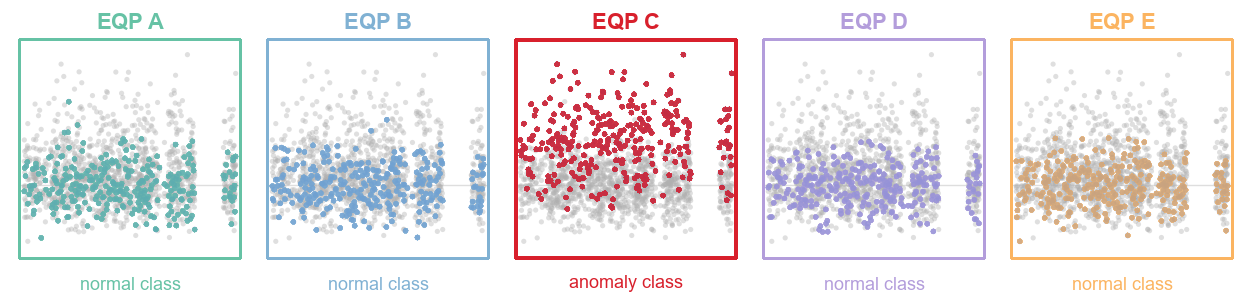
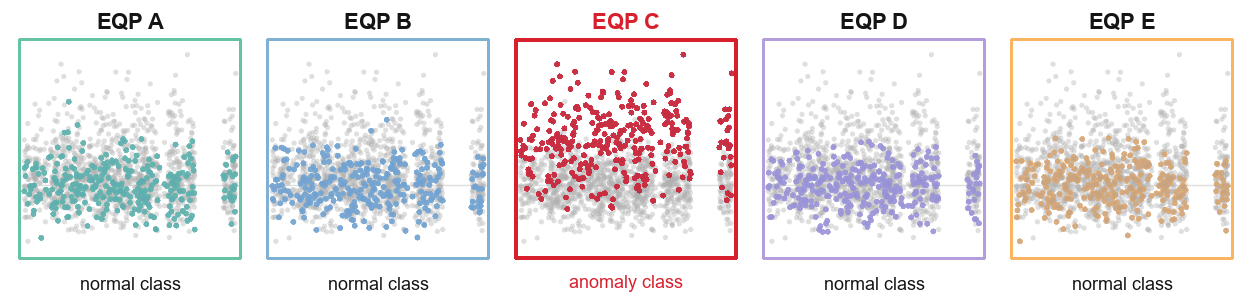
Simplify summary and update live progress

diff --git a/scripts/generate_strict_one_factor_report.py b/scripts/generate_strict_one_factor_report.py
@@ -697,16 +697,16 @@ def best_known_method(records: dict[str, dict[str, ConditionRecord]]) -> list[st
 
     recipe_lines: list[str] = []
     recipe_lines.extend([
-        "| axis | ref value | BKM value | F1 | FN | FP | status |",
+        "| axis | baseline | BKM value | F1 | FN | FP | status |",
         "| --- | ---: | ---: | ---: | ---: | ---: | --- |",
     ])
     for family in ("normal_ratio", "gc", "label_smoothing", "stochastic_depth", "focal_gamma", "abnormal_weight", "ema", "allow_tie_save"):
         best = picks[family]
         if best is None:
             continue
-        ref_label = FAMILY_BASELINES.get(family, ("", ""))[0]
+        baseline_label = {"gc": "1.0"}.get(family, FAMILY_BASELINES.get(family, ("", ""))[0])
         recipe_lines.append(
-            f"| `{family}` | `{ref_label}` | `{best.label}` | {fmt_float(best.f1)} | {fmt_compact(best.fn)} | {fmt_compact(best.fp)} | single-axis evidence |"
+            f"| `{family}` | `{baseline_label}` | `{best.label}` | {fmt_float(best.f1)} | {fmt_compact(best.fn)} | {fmt_compact(best.fp)} | single-axis evidence |"
         )
     return recipe_lines
 
@@ -892,44 +892,27 @@ def write_markdown(
         "",
         f"_Auto-updated at `{generated_at}`._",
         "",
-        "## Interpretation",
+        "## Experiment Protocol",
+        "",
+        "- Strict one-factor protocol: keep the baseline fixed and change one axis at a time.",
+        "- Main seed set: `42, 1, 2, 3, 4`; report `F1`, `FN`, `FP`, and completed seed count.",
+        f"- Operating baseline: `{OPERATING_BASELINE}`.",
+        "- Rawbase server sweep uses `grad_clip=0.0`, `smooth_window=1`, `label_smoothing=0.0`, and `NT=0.9`.",
+        "",
+        "## Performance Summary",
+        "",
+        "| experiment | basis | seeds/runs | F1 | FN | FP | note |",
+        "| --- | --- | ---: | ---: | ---: | ---: | --- |",
+        f"| `{OPERATING_BASELINE}` | operating baseline | 5/5 | {fmt_float(baseline[0])} | {fmt_compact(baseline[1])} | {fmt_compact(baseline[2])} | current comparison baseline |",
+        "| `fresh0412_v11_refcheck_gcsmooth_n700` | matched control | 5/5 | 0.9955 | 4.4 | 2.4 | legacy strict delta basis |",
+        "| `fresh0412_v11_n700_existing` | historical selected ref | 5/5 | 0.9901 | 9.8 | 5.0 | reference-selection history |",
+        f"| main strict queue | one-factor sweep | {main_complete} runs | - | - | - | decision `{strict_summary.get('decision')}` |",
+        f"| round-2 refinement | follow-up neighbors | {round2_complete}/{round2_total} runs | - | - | - | stage `{state.get('stage')}`, status `{state.get('status')}` |",
         "",
     ]
-    lines.extend([f"- {line}" for line in experiment_interpretation(records)])
-    lines.extend([
-        "",
-        "## Evidence Limits And Next Fixes",
-        "",
-    ])
-    lines.extend([f"- {line}" for line in evidence_limits(records)])
-    lines.extend([
-        "",
-        "## Summary",
-        "",
-        f"- Operating baseline: `{OPERATING_BASELINE}` -> `F1={fmt_float(baseline[0])}`, `FN={fmt_compact(baseline[1])}`, `FP={fmt_compact(baseline[2])}` over `5/5` seeds.",
-        f"- Historical selected ref: `{HISTORICAL_BASELINE}` -> `F1=0.9901`, `FN=9.8`, `FP=5.0`; kept only as reference-selection history.",
-        f"- Main strict queue: `{main_complete}` completed runs, decision `{strict_summary.get('decision')}`.",
-        f"- Round-2 refinement: `{round2_complete}/{round2_total}` completed runs, stage `{state.get('stage')}`, status `{state.get('status')}`.",
-        "",
-        "Display용 이미지와 실제 학습 입력 이미지는 다릅니다. 아래 두 montage는 기존 `display_v11/`와 `images_v11/`에서 같은 class 순서로 가져온 예시입니다.",
-        "",
-        "**Display images**",
-        "",
-        "![display samples](sample_overview_display.png)",
-        "",
-        "**Training images**",
-        "",
-        "![training samples](sample_overview_train.png)",
-        "",
-    ])
-    lines.extend([f"- {line}" for line in strongest_candidates(records)])
-    if optimized_normal_ratio:
-        lines.append("- `normal_ratio`: 현재 ref 기준 sweep에서는 3000~3500 구간이 좋아 보이지만, optimized-v11 sweep을 같이 보면 normal_ratio 증가가 항상 개선을 만들지는 않습니다.")
     lines.extend([
         "",
         "## Best Known Method",
-        "",
-        "_This is the current best-known method table from one-factor evidence. Joint combo validation still has to be run after round-2 closes._",
         "",
     ])
     lines.extend(best_known_method(records) or ["- No completed candidate set yet."])
@@ -939,7 +922,7 @@ def write_markdown(
         "",
         "같은 context chart를 member별 class 판단 이미지로 확장합니다. 불량 member 이미지만 anomaly class이고, 양호 member 이미지는 normal class입니다.",
         "",
-        "아래 예시는 같은 chart `ch_09100`을 `EQP A`, `EQP B`, `EQP C`, `EQP D`, `EQP E` class 이미지로 펼친 것입니다. 각 EQP class는 서로 다른 색으로 표시하고, 회색 점들은 같은 context 안의 비교 fleet입니다. 이 예시에서는 `EQP C`만 빨간 anomaly class이고 `EQP A`, `EQP B`, `EQP D`, `EQP E`는 파스텔 normal class입니다.",
+        "아래 예시는 같은 chart `ch_09100`을 `EQP A`, `EQP B`, `EQP C`, `EQP D`, `EQP E` class 이미지로 펼친 것입니다. 각 EQP의 highlighted trend만 서로 다른 색으로 표시하고, 회색 점들은 같은 context 안의 비교 fleet입니다. class 글자는 normal은 검정, anomaly는 빨강입니다. 이 예시에서는 `EQP C`만 anomaly class이고 `EQP A`, `EQP B`, `EQP D`, `EQP E`는 normal class입니다.",
         "",
         "![logical member class examples](logical_member_targets_ch09100.png)",
         "",

diff --git a/scripts/update_live_summary_doc.py b/scripts/update_live_summary_doc.py
@@ -315,6 +315,68 @@ def build_overview(args: argparse.Namespace) -> list[str]:
     return lines
 
 
+def build_performance_summary(args: argparse.Namespace) -> list[str]:
+    raw_ref = read_json(args.raw_ref_summary)
+    rawbase = read_json(args.rawbase_summary)
+    sample_skip = read_json(args.sample_skip_summary)
+
+    raw_agg = raw_ref.get("aggregates", {})
+    rawbase_agg = rawbase.get("aggregates", {})
+    sample_latest = latest_run(sample_skip)
+
+    lines = [
+        "",
+        "| experiment | basis | seeds/runs | F1 | FN | FP | note |",
+        "| --- | --- | ---: | ---: | ---: | ---: | --- |",
+    ]
+    if raw_agg:
+        lines.append(
+            f"| `fresh0412_v11_refcheck_raw_n700` | raw server baseline | {raw_agg.get('complete', 0)}/5 | "
+            f"{fmt_num(raw_agg.get('f1_mean'))} | {fmt_num(raw_agg.get('fn_mean'), 3)} | {fmt_num(raw_agg.get('fp_mean'), 3)} | 현재 서버 기준선 |"
+        )
+    else:
+        lines.append("| `fresh0412_v11_refcheck_raw_n700` | raw server baseline | 5/5 | 0.99746 | 1.6 | 2.2 | 현재 서버 기준선 |")
+    lines.extend([
+        "| `fresh0412_v11_refcheck_gcsmooth_n700` | matched control | 5/5 | 0.9955 | 4.4 | 2.4 | 아래 기존 strict 표의 delta 기준 |",
+        "| `fresh0412_v11_n700_existing` | historical selected ref | 5/5 | 0.9901 | 9.8 | 5.0 | 과거 reference 선택 기록 |",
+    ])
+    if rawbase_agg:
+        lines.append(
+            f"| rawbase round1 live | rawbase history | {rawbase_agg.get('complete', 0)} runs | "
+            f"{fmt_num(rawbase_agg.get('f1_mean'))} | {fmt_num(rawbase_agg.get('fn_mean'), 3)} | {fmt_num(rawbase_agg.get('fp_mean'), 3)} | 중간 집계, 최종 claim 아님 |"
+        )
+    if sample_latest:
+        lines.append(
+            f"| sample-skip pilot | separate 1-run | 1/1 | {fmt_num(sample_latest.get('test_f1'))} | "
+            f"{sample_latest.get('fn')} | {sample_latest.get('fp')} | main sweep과 분리 |"
+        )
+    lines.append("")
+    return lines
+
+
+def build_rawbase_progress(args: argparse.Namespace) -> list[str]:
+    rawbase = read_json(args.rawbase_summary)
+    by_candidate = rawbase.get("aggregates", {}).get("by_candidate", {})
+    lines = [
+        "",
+        "| candidate | seeds | F1 | FN | FP | status |",
+        "| --- | ---: | ---: | ---: | ---: | --- |",
+    ]
+    if isinstance(by_candidate, dict):
+        for name, row in sorted(by_candidate.items()):
+            complete = int(row.get("complete", 0) or 0)
+            status = "complete" if complete >= 5 else "partial"
+            lines.append(
+                f"| `{name}` | {complete}/5 | {fmt_num(row.get('f1_mean'))} | "
+                f"{fmt_num(row.get('fn_mean'), 3)} | {fmt_num(row.get('fp_mean'), 3)} | {status} |"
+            )
+    active = active_log(args.logs_dir)
+    if active:
+        lines.extend(["", f"- active run: `{active}`"])
+    lines.append("")
+    return lines
+
+
 def replace_section(text: str, heading: str, new_lines: list[str]) -> str:
     pattern = re.compile(rf"({re.escape(heading)}\n)(.*?)(\n## )", re.S)
     replacement = r"\1" + "\n".join(new_lines) + r"\3"
@@ -322,6 +384,14 @@ def replace_section(text: str, heading: str, new_lines: list[str]) -> str:
     if count != 1:
         raise SystemExit(f"heading section not found: {heading}")
     return text
+
+
+def insert_section_before(text: str, heading: str, section_heading: str, new_lines: list[str]) -> str:
+    idx = text.find(heading)
+    if idx < 0:
+        return text.rstrip() + "\n\n" + section_heading + "\n" + "\n".join(new_lines) + "\n"
+    section = section_heading + "\n" + "\n".join(new_lines)
+    return text[:idx].rstrip() + "\n\n" + section.rstrip() + "\n\n" + text[idx:].lstrip()
 
 
 def replace_tail(text: str, heading: str, new_lines: list[str]) -> str:
@@ -347,13 +417,19 @@ def main() -> int:
     text = args.docs.read_text(encoding="utf-8")
     now = datetime.now().astimezone().isoformat(timespec="seconds")
     text = re.sub(r"_자동 갱신 시각: `[^`]+`._", f"_자동 갱신 시각: `{now}`._", text, count=1)
-    text = replace_section(text, "## 현재 진행 상태", build_status(args))
-    text = replace_section(text, "## 요약", build_overview(args))
-    live_lines = rawbase_live_sections(args)
+    if "## 성능 요약" in text:
+        text = replace_section(text, "## 성능 요약", build_performance_summary(args))
+    elif "## 현재 진행 상태" in text:
+        text = replace_section(text, "## 현재 진행 상태", build_status(args))
+    if "## Rawbase 진행" in text:
+        text = replace_section(text, "## Rawbase 진행", build_rawbase_progress(args))
+    elif "## Best Known Method" in text:
+        text = insert_section_before(text, "## Best Known Method", "## Rawbase 진행", build_rawbase_progress(args))
+    if "## 요약" in text:
+        text = replace_section(text, "## 요약", build_overview(args))
     if "## Rawbase Live Tables And Plots" in text:
+        live_lines = rawbase_live_sections(args)
         text = replace_tail(text, "## Rawbase Live Tables And Plots", live_lines)
-    else:
-        text = text.rstrip() + "\n\n" + "\n".join(live_lines) + "\n"
     args.docs.write_text(text, encoding="utf-8")
     print(f"[live-summary] updated {args.docs}")
     return 0

diff --git a/scripts/publish_strict_report.py b/scripts/publish_strict_report.py
@@ -34,12 +34,13 @@ def rewrite_report_text(text: str) -> str:
     replacements = {
         "# Strict Single-Factor Report": "# 실험 요약",
         "_Auto-updated at `": "_자동 갱신 시각: `",
+        "## Experiment Protocol": "## 실험 방식",
+        "## Performance Summary": "## 성능 요약",
         "## Summary": "## 요약",
         "## Interpretation": "## 결과 해석",
         "## Evidence Limits And Next Fixes": "## 한계와 수정 필요 사항",
         "## Best Known Method": "## Best Known Method",
-        "_This is the current best-known method table from one-factor evidence. Joint combo validation still has to be run after round-2 closes._":
-            "_현재 one-factor evidence 기준 best-known method입니다. round-2 종료 후 joint combo validation이 필요합니다._",
+        "_This is the current best-known method table from one-factor evidence. Joint combo validation still has to be run after round-2 closes._": "",
         "## Pending Round-2 Checks": "## 남은 Round-2 확인 항목",
         "## Plot Index": "## 플롯 목록",
         "Frozen ref:": "고정 기준 ref:",

diff --git a/docs/summary.md b/docs/summary.md
@@ -1,92 +1,54 @@
 # 실험 요약
 
-_자동 갱신 시각: `2026-04-28T20:23:15+09:00`._
+_자동 갱신 시각: `2026-04-28T23:56:44+09:00`._
 
-## 현재 진행 상태
+## 실험 방식
 
-- Team agent 점검 결과, GC 축은 서버 rawbase queue에서 5개 조건으로 제한합니다: `gc01`, `gc025`, `gc05`, `gc15`, `gc50`.
-- raw server baseline refcheck는 `5/5` 완료됐습니다: `fresh0412_v11_refcheck_raw_n700` -> `F1=0.99746`, `FN=1.6`, `FP=2.2`.
-- raw refcheck per-seed 완료값은 `s42 F1=0.9980/FN=0/FP=3`, `s1 F1=0.9980/FN=1/FP=2`, `s2 F1=0.9940/FN=7/FP=2`, `s3 F1=0.9993/FN=0/FP=1`, `s4 F1=0.9980/FN=0/FP=3`입니다.
-- 서버용 rawbase queue 생성은 `validations/server_paper_rawbase_strict_single_factor_queue.json`를 사용하며 기준 설정은 `grad_clip=0.0`, `smooth_window=1`, `smooth_method=median`, `label_smoothing=0.0`입니다.
-- 학습 완료 후 다음 조건으로 즉시 넘어가는 handoff는 smoke run으로 검증했습니다. `max_samples_per_split=10`, `epochs=3`의 2-run queue가 `queue_exhausted`까지 완료됐고, 첫 run의 `=== EXIT 0 ... ===` 직후 두 번째 `=== RUN ... ===`가 시작됐습니다.
-- NT 평가는 selected threshold만 남겼습니다. 현재 reporting default는 `NT=0.9`이고, smoke run에서 `confusion_matrix_nt.png` 생성까지 확인했습니다.
-- sample-level nonfinite loss filter는 main sweep과 분리된 별도 1-run sample-skip queue로 실행합니다: `bash scripts/sweeps_server/06_sample_skip.sh`.
-- rawbase round1에서 GC는 5개 조건만 남깁니다. 기존 dense GC 결과와 중단 전 추가로 수집된 rawbase GC 일부는 보조 기록으로 보고, main sweep에는 축별 조건 수를 제한합니다.
-- 로그 폴더 이력 기반 표/plot 생성 스크립트를 추가했습니다: `python scripts/generate_log_history_report.py --logs-dir logs --out-prefix validations/log_history_report_refcheck_raw --contains refcheck_raw`. 출력은 markdown, candidate/run CSV, candidate F1 plot, val F1 curve, grad p99 curve입니다.
-- `TestEpoch` 평가는 best update 여부와 별개로 수행될 수 있으므로, 이제 tie/no-improvement epoch에서도 평가가 수행되면 `TestEpoch[...] f1=... FN=... FP=...` 한 줄이 출력됩니다.
-- controller/all.sh 로그에서는 tqdm progress bar가 자동 비활성화됩니다. pipe/tee 환경에서 carriage-return bar가 여러 줄로 쌓이는 문제를 피하고, 직접 interactive 실행할 때만 bar가 유지됩니다.
+- 같은 baseline에서 한 번에 하나의 축만 바꾸는 strict one-factor 실험입니다.
+- 기본 seed는 `42, 1, 2, 3, 4`이고, 성능은 `F1`, `FN`, `FP`, 완료 seed 수로 봅니다.
+- 서버 rawbase 기준선은 `fresh0412_v11_refcheck_raw_n700`입니다. rawbase main sweep은 `grad_clip=0.0`, `smooth_window=1`, `label_smoothing=0.0`, `NT=0.9`로 맞춥니다.
+- GC는 rawbase main sweep에서 `gc01`, `gc025`, `gc05`, `gc15`, `gc50` 5조건만 비교합니다. sample-skip은 main sweep에 섞지 않고 별도 1-run으로만 봅니다.
 
-## Team Agent 운영 계획
+## 성능 요약
 
-- 1단계: raw baseline refcheck 5 seeds는 완료됐고, `validations/server_paper_refcheck_raw_summary.json`을 raw 기준선으로 채택합니다.
-- 2단계: rawbase strict round1은 GC 5조건 제한을 적용한 뒤 진행합니다. `bash scripts/sweeps_server/00_all.sh`, `02_round1.sh`, Windows watcher 모두 같은 queue preparation 정책을 씁니다.
-- 3단계: raw round1 결과로 round2를 새로 선택합니다. 기존 `paper_strict_single_factor_round2_*` 산출물은 gcsmooth 기준이므로 raw baseline claim에는 직접 재사용하지 않습니다.
-- 4단계: sample-skip은 main sweep에 섞지 않고 별도 1-run으로만 비교합니다. 우선순위는 5조건 GC, `normal_ratio`, `label_smoothing`, `abnormal_weight`, `stochastic_depth`, `ema`입니다.
+| experiment | basis | seeds/runs | F1 | FN | FP | note |
+| --- | --- | ---: | ---: | ---: | ---: | --- |
+| `fresh0412_v11_refcheck_raw_n700` | raw server baseline | 5/5 | 0.9975 | 1.6 | 2.2 | 현재 서버 기준선 |
+| `fresh0412_v11_refcheck_gcsmooth_n700` | matched control | 5/5 | 0.9955 | 4.4 | 2.4 | 아래 기존 strict 표의 delta 기준 |
+| `fresh0412_v11_n700_existing` | historical selected ref | 5/5 | 0.9901 | 9.8 | 5.0 | 과거 reference 선택 기록 |
+| rawbase round1 live | rawbase history | 19 runs | 0.9982 | 0.526 | 2.158 | 중간 집계, 최종 claim 아님 |
+| sample-skip pilot | separate 1-run | 1/1 | 0.9973 | 2 | 2 | main sweep과 분리 |
 
-## 결과 해석
+## Rawbase 진행
 
-- 이번 strict one-factor round에서는 baseline을 고정한 채 `normal_ratio`, `per_class`, `lr`, `warmup`, `gc`, `weight_decay`, `smoothing`, `label_smoothing`, `stochastic_depth`, `focal_gamma`, `abnormal_weight`, `ema`, `color`, `allow_tie_save`를 개별 축으로 확인했습니다.
-- 유의미한 최적값 후보가 보이는 축은 `label_smoothing`은 `0.15` 근처에서 가장 강한 개선이 보였고, 너무 낮거나 높으면 FP/FN 균형이 다시 나빠졌습니다; `abnormal_weight`는 `1.5` 근처에서 sweet spot이 보였고, 더 크게 주면 FN이 다시 증가했습니다; `stochastic_depth`는 `0.1` 인근에서 유의미한 개선이 나타났습니다.
-- `GC`는 dense sweep이 과하므로 서버 rawbase에서는 5개 조건만 유지합니다. 단일 sharp optimum보다는 넓은 양호 구간으로 해석하는 편이 맞고, 나머지 세부 GC 값은 보조 기록으로만 둡니다.
-- 현재로서는 뚜렷한 최적값이 약하거나 추가 확인이 필요한 축은 `focal_gamma`는 여러 값이 비슷해서 뚜렷한 최적값보다는 broad-good 혹은 약한 효과 축에 가깝습니다; `normal_ratio`는 성능이 전반적으로 좋아지는 구간은 보이지만, 현재 점들만으로는 매끈한 단일 sweet spot이라고 단정하기 어렵습니다; `ema`는 baseline 대비 개선은 있으나 강한 최적값 주장을 하기는 아직 어렵습니다.
-
-## 한계와 수정 필요 사항
-
-- 서버 운영 baseline은 raw 기준 `fresh0412_v11_refcheck_raw_n700`로 전환 완료됐습니다. 다만 아래 기존 strict 표와 delta는 아직 완료된 matched control `fresh0412_v11_refcheck_gcsmooth_n700` 기준으로 남아 있으므로, rawbase round1이 쌓이는 대로 raw 기준 표로 재생성해야 합니다.
-- 완료된 gcsmooth matched control은 `F1=0.9955`, `FN=4.4`, `FP=2.4`, target band hit `0/5`입니다. FP가 전 seed에서 낮아 기준선이 너무 깨끗하다는 한계가 있습니다.
-- `fresh0412_v11_n700_existing`은 historical selected ref로 보존합니다. raw strict one-factor 표와 delta 계산 기준은 `fresh0412_v11_refcheck_raw_n700`로 재생성해야 합니다.
-- `label_smoothing=0.0`은 baseline train config에 명시된 no-smoothing 상태입니다. 단, `label_smoothing>0`에서는 loss 구현 경로가 `CrossEntropyLoss(label_smoothing=...)`로 바뀌므로 최종 claim에는 이 구현 차이를 한계로 적어야 합니다.
-- 현재 표는 baseline-fixed one-factor evidence만 섞어 보여줍니다. alternate-parent stress, bad-case rescue, logical/per-member 실험은 별도 표로 분리해야 합니다.
-- rawbase server queue는 GC 5조건 제한과 sample-skip 분리를 반영한 뒤 재생성해야 합니다. claim 성숙도 카운트는 rawbase round1 완료 후 재계산합니다.
-- `stochastic_depth`는 학습 때 일부 residual/drop-path branch를 확률적으로 끄는 regularization입니다. 추론 때는 전체 경로를 쓰며, 모델이 한 경로에 과적합하지 않게 만들어 seed 안정성과 FN/FP 균형이 좋아지는지 보는 축입니다.
-- 최종 논문화 전에는 각 축마다 per-seed/worst-seed, history의 val_loss/F1 진동, prediction trend의 반복 FP/FN chart_id, label-or-annotation suspect를 붙여야 합니다.
-
-## 요약
-
-- Active server baseline candidate: `fresh0412_v11_refcheck_raw_n700` -> refcheck complete, `F1=0.99746`, `FN=1.6`, `FP=2.2` over `5/5` seeds.
-- Server queue policy: rawbase round1 keeps only 5 GC conditions and runs sample-skip separately via `scripts/sweeps_server/06_sample_skip.sh`.
-- Last completed matched control: `fresh0412_v11_refcheck_gcsmooth_n700` -> `F1=0.9955`, `FN=4.4`, `FP=2.4` over `5/5` seeds.
-- Historical selected ref: `fresh0412_v11_n700_existing` -> `F1=0.9901`, `FN=9.8`, `FP=5.0`; kept only as reference-selection history.
-- 메인 strict queue: `158` 완료 run, decision `queue_exhausted`.
-- Round-2 refinement: 기존 `13/40` 완료 run은 gcsmooth 기준 stage로 보존하되, raw claim용 round2는 rawbase round1 결과 뒤 새로 선정합니다.
-
-Display용 이미지와 실제 학습 입력 이미지는 다릅니다. 아래 두 montage는 기존 `display_v11/`와 `images_v11/`에서 같은 class 순서로 가져온 예시입니다.
-
-**Display images**
-
-![display samples](sample_overview_display.png)
-
-**Training images**
-
-![training samples](sample_overview_train.png)
-
-- `label_smoothing` 현재 완료된 조건 중 최선은 `0.15` with `F1=0.9977`, `FN=0.8`, `FP=2.6`.
-- `abnormal_weight` 현재 완료된 조건 중 최선은 `1.5` with `F1=0.9979`, `FN=1.2`, `FP=2`.
-- `stochastic_depth` 현재 완료된 조건 중 최선은 `0.1` with `F1=0.9975`, `FN=1.2`, `FP=2.6`.
-- `GC` 넓은 양호 구간이 유지되고 있으며 완료 조건 중 현재 총 오류가 가장 낮은 쪽은 대략 `1.25` with `F1=0.9975`, `FN=1`, `FP=2.8`. 미완료 값은 본 표에서 제외했습니다.
-- `color`는 현재 유효한 비교가 baseline vs c01뿐입니다: `c01 0.9971 / FN 0.6 / FP 3.8`. c02/c03는 생성 이미지가 의도와 달라 재생성이 필요합니다.
-- `normal_ratio`: 현재 ref 기준 sweep에서는 3000~3500 구간이 좋아 보이지만, optimized-v11 sweep을 같이 보면 normal_ratio 증가가 항상 개선을 만들지는 않습니다.
-
-## 임시 황금 레시피
-
-_아직 one-factor evidence 단계입니다. round-2 종료 후 joint combo validation이 필요합니다._
-
-| axis | selected value | F1 | FN | FP | status |
+| candidate | seeds | F1 | FN | FP | status |
 | --- | ---: | ---: | ---: | ---: | --- |
-| `normal_ratio` | `3300` | 0.9973 | 2.4 | 1.6 | provisional |
-| `gc` | `1.25` | 0.9975 | 1 | 2.8 | provisional |
-| `label_smoothing` | `0.15` | 0.9977 | 0.8 | 2.6 | provisional |
-| `stochastic_depth` | `0.1` | 0.9975 | 1.2 | 2.6 | provisional |
-| `focal_gamma` | `0.5` | 0.9969 | 2.8 | 1.8 | provisional |
-| `abnormal_weight` | `1.5` | 0.9979 | 1.2 | 2 | provisional |
-| `ema` | `0.99` | 0.9972 | 1 | 3.2 | provisional |
-| `allow_tie_save` | `on` | 0.9974 | 2.2 | 1.8 | provisional |
+| `fresh0412_v11_rawbase_gc01_n700` | 5/5 | 0.9976 | 0.6 | 3 | complete |
+| `fresh0412_v11_rawbase_gc025_n700` | 3/5 | 0.9984 | 0.333 | 2 | partial |
+| `fresh0412_v11_rawbase_n3000` | 5/5 | 0.9985 | 0.4 | 1.8 | complete |
+| `fresh0412_v11_rawbase_n3150` | 5/5 | 0.9981 | 0.8 | 2 | complete |
+| `fresh0412_v11_rawbase_n3300` | 1/5 | 0.9993 | 0 | 1 | partial |
+
+- active run: `260428_235024_fresh0412_v11_rawbase_n3300_s1`
+
+## Best Known Method
+
+| axis | baseline | BKM value | F1 | FN | FP | status |
+| --- | ---: | ---: | ---: | ---: | ---: | --- |
+| `normal_ratio` | `700` | `3300` | 0.9973 | 2.4 | 1.6 | single-axis evidence |
+| `gc` | `1.0` | `1.25` | 0.9975 | 1 | 2.8 | single-axis evidence |
+| `label_smoothing` | `0.00` | `0.15` | 0.9977 | 0.8 | 2.6 | single-axis evidence |
+| `stochastic_depth` | `0.00` | `0.1` | 0.9975 | 1.2 | 2.6 | single-axis evidence |
+| `focal_gamma` | `0.0` | `0.5` | 0.9969 | 2.8 | 1.8 | single-axis evidence |
+| `abnormal_weight` | `1.0` | `1.5` | 0.9979 | 1.2 | 2 | single-axis evidence |
+| `ema` | `0.0 / off` | `0.99` | 0.9972 | 1 | 3.2 | single-axis evidence |
+| `allow_tie_save` | `off` | `on` | 0.9974 | 2.2 | 1.8 | single-axis evidence |
 
 ## Logical Member Attribution Example
 
 같은 context chart를 member별 class 판단 이미지로 확장합니다. 불량 member 이미지만 anomaly class이고, 양호 member 이미지는 normal class입니다.
 
-아래 예시는 같은 chart `ch_09100`을 `EQP A`, `EQP B`, `EQP C`, `EQP D`, `EQP E` class 이미지로 펼친 것입니다. 각 EQP class는 서로 다른 색으로 표시하고, 회색 점들은 같은 context 안의 비교 fleet입니다. 이 예시에서는 `EQP C`만 빨간 anomaly class이고 `EQP A`, `EQP B`, `EQP D`, `EQP E`는 파스텔 normal class입니다.
+아래 예시는 같은 chart `ch_09100`을 `EQP A`, `EQP B`, `EQP C`, `EQP D`, `EQP E` class 이미지로 펼친 것입니다. 각 EQP의 highlighted trend만 서로 다른 색으로 표시하고, 회색 점들은 같은 context 안의 비교 fleet입니다. class 글자는 normal은 검정, anomaly는 빨강입니다. 이 예시에서는 `EQP C`만 anomaly class이고 `EQP A`, `EQP B`, `EQP D`, `EQP E`는 normal class입니다.
 
 ![logical member class examples](logical_member_targets_ch09100.png)
 
